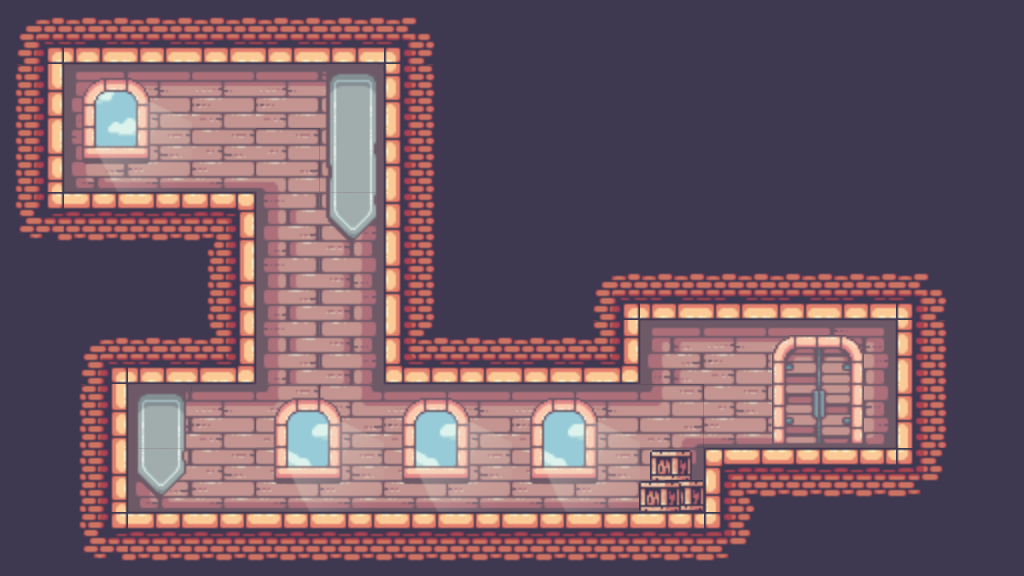
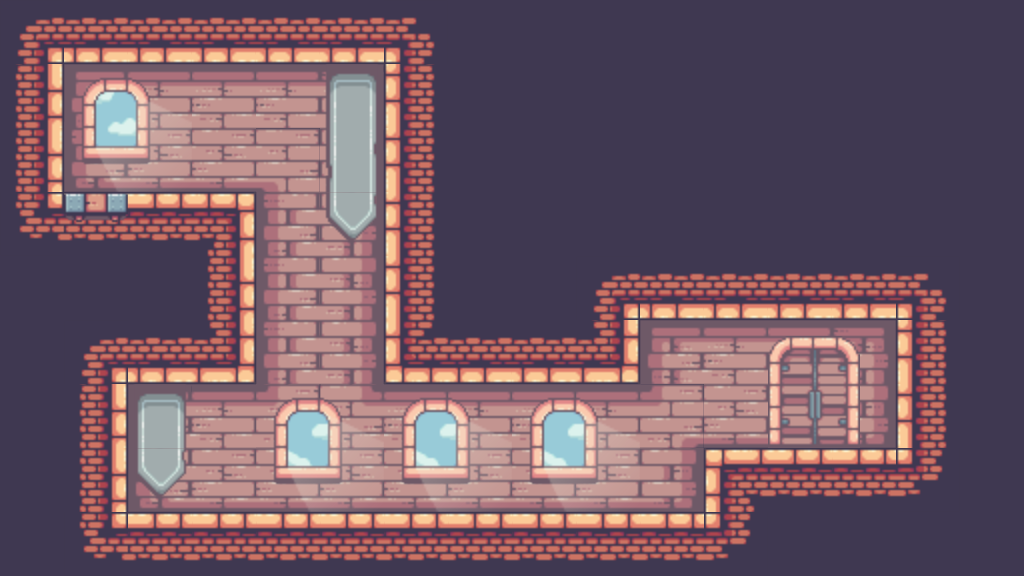
Level 2 and updated initPlayer()

Changed region(s): [[0.75, 0.5625, 0.8438, 0.7812], [0.625, 0.7812, 0.6875, 0.9062], [0.0625, 0.3125, 0.125, 0.4062]]

diff --git a/main.js b/main.js
@@ -238,7 +238,7 @@ class ActorSprite {
     animate(deltaTime) {
         this.animationCounter += deltaTime;
         if (this.animationCounter >= this.animationTimer) {
-            if (this.currentFrame > this.maxFrame - 2) {
+            if (this.currentFrame > this.maxFrame) {
                 this.currentFrame = 0;
             }
             else {
@@ -260,7 +260,7 @@ class Player {
         this.r = 0;
         this.width = args.width;
         this.height = args.height;
-        this.pos = new Vector2D(400, 200);
+        this.pos = new Vector2D(0, 0);
         this.vel = new Vector2D(0, 0);
         this.jumpFactor = args.jumpFactor;
         this.speedFactor = args.speedFactor;
@@ -416,7 +416,7 @@ class Door extends Point {
         let cropbox = this.sprite.cropbox();
         let frameWidth = (this.sprite.image.width / this.sprite.maxFrame);
         ctx.save();
-        ctx.translate(0, -(this.sprite.h - this.radius * 2) / 2);
+        ctx.translate(0, (-this.sprite.h + 15) / 2);
         ctx.drawImage(this.sprite.image, 
         /**
          * cropbox is what needs to be cropped from original image
@@ -436,11 +436,15 @@ class Door extends Point {
          * Draw sprite outline (cropbox)
          */
         if (GAME.debug.isOn) {
-            // Point
+            /**
+             * Draw reference point (origin)
+             */
             super.draw(ctx);
-            // Cropbox
+            /**
+             * Draw door cropbox outline
+             */
             ctx.save();
-            ctx.translate(0, -(this.sprite.h - this.radius * 2 - 2) / 2);
+            ctx.translate(0, (-this.sprite.h + 15) / 2);
             ctx.beginPath();
             ctx.strokeStyle = 'black';
             ctx.rect(this.pos.x, this.pos.y, this.sprite.w, this.sprite.h);
@@ -471,18 +475,18 @@ class GameEngine {
         return {
             1: {
                 collisions: [
-                    [0, 0, 0, 0, 0, 0, 0, 0, 0, 0, 0, 0, 0, 0, 0, 0],
-                    [0, 0, 0, 0, 0, 0, 0, 0, 0, 0, 0, 0, 0, 0, 0, 0],
-                    [0, 292, 292, 292, 292, 292, 292, 292, 292, 292, 292, 292, 292, 292, 292, 0],
-                    [0, 292, 0, 0, 0, 0, 0, 0, 0, 0, 0, 0, 0, 0, 292, 0],
-                    [0, 292, 0, 0, 0, 0, 0, 0, 0, 0, 0, 0, 0, 0, 292, 0],
-                    [0, 292, 292, 267, 0, 0, 0, 0, 0, 0, 0, 0, 290, 0, 292, 0],
-                    [0, 292, 292, 292, 292, 292, 292, 292, 292, 292, 292, 292, 292, 292, 292, 0],
-                    [0, 0, 0, 0, 0, 0, 0, 0, 0, 0, 0, 0, 0, 0, 0, 0],
-                    [0, 0, 0, 0, 0, 0, 0, 0, 0, 0, 0, 0, 0, 0, 0, 0]
+                    [292, 292, 292, 292, 292, 292, 292, 0, 0, 0, 0, 0, 0, 0, 0, 0],
+                    [292, 0, 0, 0, 0, 0, 292, 0, 0, 0, 0, 0, 0, 0, 0, 0],
+                    [292, 0, 0, 0, 0, 0, 292, 0, 0, 0, 0, 0, 0, 0, 0, 0],
+                    [292, 267, 292, 292, 0, 0, 292, 0, 0, 0, 0, 0, 0, 0, 0, 0],
+                    [0, 0, 0, 292, 0, 0, 292, 0, 0, 292, 292, 292, 292, 292, 292, 0],
+                    [0, 292, 292, 292, 0, 0, 292, 292, 292, 292, 0, 0, 0, 0, 292, 0],
+                    [0, 292, 0, 0, 0, 0, 0, 0, 0, 0, 0, 0, 290, 0, 292, 0],
+                    [0, 292, 0, 0, 0, 0, 0, 0, 0, 0, 0, 292, 292, 292, 292, 0],
+                    [0, 292, 292, 292, 292, 292, 292, 292, 292, 292, 292, 292, 0, 0, 0, 0]
                 ],
                 image: {
-                    src: './img/backgroundLevel1.png',
+                    src: './img/backgroundLevel2.png',
                     sw: 1024, // TODO: find a way to remove this
                     sh: 576 // and this.
                 },
@@ -511,19 +515,21 @@ class GameEngine {
          * Place the player on this location when game starts or
          * when player respawns.
          */
-        this.blocks.forEach(block => {
-            if (block.constructor.name == 'SpawnPlace') {
-                /**
-                 * Exact positoin is offset by half the player's width
-                 * to place it on top of the point.
-                 */
-                this.player.pos.x = block.pos.x - this.player.width / 2;
-                /**
-                 * Gravity will affect this. It's possible the player won't end up on the y-value of the point if there's a collision block.
-                 */
-                this.player.pos.y = block.pos.y;
-            }
-        });
+        let block = this.blocks.find(block => block.constructor.name == 'SpawnPlace');
+        if (block) {
+            /**
+             * Exact positoin is offset by half the player's width
+             * to place it on top of the point.
+             * Using a buffer to avoid the edge case where the player
+             * spawns on the edge of a collision block.
+             */
+            let buffer = this.player.width / 2;
+            this.player.pos.x = block.pos.x + buffer;
+            /**
+             * Gravity will affect this. It's possible the player won't end up on the y-value of the point if there's a collision block.
+             */
+            this.player.pos.y = block.pos.y;
+        }
         /**
          * Player dimensions should be responsive to the
          * canvas dimensions.
@@ -582,9 +588,12 @@ class GameEngine {
             this.player.move(LEFT);
             this.player.sprite.swapSprite('./img/king/runLeft.png', 8);
         }
+        /**
+         * [Debug Mode]
+         * Toggle debug mode by pressing "d"
+         */
         if (e.key == D) {
             this.debug.isOn = !this.debug.isOn; // toggle debug mode
-            console.log(this);
         }
     }
     checkCanvasCollision(p) {
@@ -597,6 +606,9 @@ class GameEngine {
         let hasHitLeftSide = playerSides.left <= 0;
         let hasHitUpSide = playerSides.up <= 0;
         let hasHitRightSide = playerSides.right >= this.canvas.width;
+        /**
+         * No need to check down side as applyGravity() already does it.
+         */
         let hasHitDownSide = playerSides.down + p.height >= this.canvas.height;
         if (hasHitLeftSide) {
             this.player.pos.x = 0;
@@ -647,7 +659,7 @@ class GameEngine {
                 case 'Door':
                     let door = block;
                     door.draw(ctx);
-                    door.sprite.animate(deltaTime);
+                    // door.sprite.animate(deltaTime);
                     break;
                 case 'SpawnPlace':
                     if (this.debug.isOn) {

diff --git a/main.ts b/main.ts
@@ -279,6 +279,12 @@ interface PlayerUpdateOptions {
 }
 
 
+interface ActorSpriteOptions {
+  pos: Vector2D
+  src: string
+  maxFrame: number
+  animationTimer: number
+}
 
 class ActorSprite {
   pos: Vector2D;
@@ -332,7 +338,7 @@ class ActorSprite {
   animate(deltaTime: number){
     this.animationCounter += deltaTime;
     if(this.animationCounter >= this.animationTimer){
-      if(this.currentFrame > this.maxFrame - 2) {
+      if(this.currentFrame > this.maxFrame) {
         this.currentFrame = 0;
       } else {
         this.currentFrame += 1;
@@ -364,8 +370,8 @@ class Player{
   constructor(args: PlayerOptions) {
     this.width = args.width;
     this.height = args.height;    
-    this.pos = new Vector2D(400, 200);
-    this.vel = new Vector2D(0, 0);
+    this.pos = new Vector2D(0,0);
+    this.vel = new Vector2D(0,0);
     this.jumpFactor = args.jumpFactor;
     this.speedFactor = args.speedFactor;
     this.game = args.game;
@@ -535,8 +541,6 @@ class Player{
 
 
 
-
-
 /**
  * A Door is an game actor in that it performs some animations
  * and influences game flow.
@@ -557,7 +561,7 @@ class Door extends Point{
     let frameWidth = (this.sprite.image.width / this.sprite.maxFrame);
     
     ctx.save();    
-    ctx.translate(0, -(this.sprite.h-this.radius*2)/2);
+    ctx.translate(0, (-this.sprite.h+15)/2);
     ctx.drawImage(this.sprite.image,
       /**
        * cropbox is what needs to be cropped from original image
@@ -578,25 +582,26 @@ class Door extends Point{
       this.sprite.h
     );
     ctx.restore();
-    
     /**
      * [Debug mode]
      * Draw door's point of reference
      * Draw sprite outline (cropbox)
      */
     if(GAME.debug.isOn){
-      // Point
+      /**
+       * Draw reference point (origin)
+       */
       super.draw(ctx);
-      // Cropbox
+      /**
+       * Draw door cropbox outline
+       */
       ctx.save();
-      ctx.translate(0, -(this.sprite.h-this.radius*2 -2)/2);
+      ctx.translate(0, (-this.sprite.h+15)/2);
       ctx.beginPath()
       ctx.strokeStyle = 'black';
       ctx.rect(this.pos.x, this.pos.y, this.sprite.w, this.sprite.h);
       ctx.stroke();
       ctx.restore();
-
-
     } 
   }
 }
@@ -648,20 +653,22 @@ class GameEngine {
   }
 
   get LEVELS(){
+    
     return {
       1: {
         collisions: [
-          [0, 0, 0, 0, 0, 0, 0, 0, 0, 0, 0, 0, 0, 0, 0, 0],
-          [0, 0, 0, 0, 0, 0, 0, 0, 0, 0, 0, 0, 0, 0, 0, 0],
-          [0, 292, 292, 292, 292, 292, 292, 292, 292, 292, 292, 292, 292, 292, 292, 0],
-          [0, 292, 0, 0, 0, 0, 0, 0, 0, 0, 0, 0, 0, 0, 292, 0],
-          [0, 292, 0, 0, 0, 0, 0, 0, 0, 0, 0, 0, 0, 0, 292, 0],
-          [0, 292, 292, 267, 0, 0, 0, 0, 0, 0, 0, 0, 290, 0, 292, 0],
-          [0, 292, 292, 292, 292, 292, 292, 292, 292, 292, 292, 292, 292, 292, 292, 0],
-          [0, 0, 0, 0, 0, 0, 0, 0, 0, 0, 0, 0, 0, 0, 0, 0],
-          [0, 0, 0, 0, 0, 0, 0, 0, 0, 0, 0, 0, 0, 0, 0, 0]],
+          [292, 292, 292, 292, 292, 292, 292, 0, 0, 0, 0, 0, 0, 0, 0, 0],
+          [292, 0, 0, 0, 0, 0, 292, 0, 0, 0, 0, 0, 0, 0, 0, 0],
+          [292, 0, 0, 0, 0, 0, 292, 0, 0, 0, 0, 0, 0, 0, 0, 0],
+          [292, 267, 292, 292, 0, 0, 292, 0, 0, 0, 0, 0, 0, 0, 0, 0],
+          [0, 0, 0, 292, 0, 0, 292, 0, 0, 292, 292, 292, 292, 292, 292, 0],
+          [0, 292, 292, 292, 0, 0, 292, 292, 292, 292, 0, 0, 0, 0, 292, 0],
+          [0, 292, 0, 0, 0, 0, 0, 0, 0, 0, 0, 0, 290, 0, 292, 0],
+          [0, 292, 0, 0, 0, 0, 0, 0, 0, 0, 0, 292, 292, 292, 292, 0],
+          [0, 292, 292, 292, 292, 292, 292, 292, 292, 292, 292, 292, 0, 0, 0, 0]
+        ],
         image: {
-          src: './img/backgroundLevel1.png',
+          src: './img/backgroundLevel2.png',
           sw: 1024, // TODO: find a way to remove this
           sh: 576   // and this.
         },
@@ -693,19 +700,21 @@ class GameEngine {
      * Place the player on this location when game starts or
      * when player respawns.
      */
-    this.blocks.forEach(block => {      
-      if(block.constructor.name == 'SpawnPlace'){
-        /**
-         * Exact positoin is offset by half the player's width
-         * to place it on top of the point.
-         */
-        this.player.pos.x = block.pos.x - this.player.width/2;
-        /**
-         * Gravity will affect this. It's possible the player won't end up on the y-value of the point if there's a collision block.
-         */
-        this.player.pos.y = block.pos.y;
-      }
-    })
+    let block = this.blocks.find(block => block.constructor.name == 'SpawnPlace');
+    if(block){
+      /**
+       * Exact positoin is offset by half the player's width
+       * to place it on top of the point.
+       * Using a buffer to avoid the edge case where the player 
+       * spawns on the edge of a collision block.
+       */
+      let buffer = this.player.width / 2;
+      this.player.pos.x = block.pos.x + buffer
+      /**
+       * Gravity will affect this. It's possible the player won't end up on the y-value of the point if there's a collision block.
+       */
+      this.player.pos.y = block.pos.y;
+    }
 
     /**
      * Player dimensions should be responsive to the 
@@ -770,9 +779,12 @@ class GameEngine {
       this.player.move(LEFT);
       this.player.sprite.swapSprite('./img/king/runLeft.png', 8);
     }
+    /**
+     * [Debug Mode]
+     * Toggle debug mode by pressing "d"
+     */
     if (e.key == D) {
       this.debug.isOn = !this.debug.isOn // toggle debug mode
-      console.log(this);
     }
   }
 
@@ -786,6 +798,9 @@ class GameEngine {
     let hasHitLeftSide = playerSides.left <= 0;
     let hasHitUpSide = playerSides.up <= 0;
     let hasHitRightSide = playerSides.right >= this.canvas.width;
+    /**
+     * No need to check down side as applyGravity() already does it.
+     */
     let hasHitDownSide = playerSides.down + p.height >= this.canvas.height;
     if (hasHitLeftSide) {
       this.player.pos.x = 0;
@@ -839,8 +854,7 @@ class GameEngine {
         case 'Door':
           let door = block as Door;
           door.draw(ctx);
-          door.sprite.animate(deltaTime);
-          
+          // door.sprite.animate(deltaTime);
           break;
         case 'SpawnPlace':
           if(this.debug.isOn){        
@@ -876,7 +890,6 @@ class GameEngine {
       gravity: this.gravity,
       collisionBlocks: this.blocks
     })
-
 
     // Reset timer
     if (this.debug.timer > ONE_SECOND) {

diff --git a/config.js b/config.js
@@ -27,14 +27,14 @@ let master = {
   },
   levels: {
     1: {
-      background:{
-         src: "./img/backgroundLevel1.png",
-         width: 1024,
-         height: 576,
-         xTiles: 16,
-         yTiles: 9,
-         tileWidth: 64
-        },
+      background: {
+        src: "./img/backgroundLevel1.png",
+        width: 1024,
+        height: 576,
+        xTiles: 16,
+        yTiles: 9,
+        tileWidth: 64
+      },
       blocks: {
         array: [
           [0, 0, 0, 0, 0, 0, 0, 0, 0, 0, 0, 0, 0, 0, 0, 0],
@@ -46,6 +46,34 @@ let master = {
           [0, 292, 292, 292, 292, 292, 292, 292, 292, 292, 292, 292, 292, 292, 292, 0],
           [0, 0, 0, 0, 0, 0, 0, 0, 0, 0, 0, 0, 0, 0, 0, 0],
           [0, 0, 0, 0, 0, 0, 0, 0, 0, 0, 0, 0, 0, 0, 0, 0]
+        ],
+        flags: {
+          collision: 292,
+          spawn: 267,
+          door: 290
+        }
+      }
+    },
+    2: {
+      background: {
+        src: "./img/backgroundLevel1.png",
+        width: 1024,
+        height: 576,
+        xTiles: 16,
+        yTiles: 9,
+        tileWidth: 64
+      },
+      blocks: {
+        array: [
+          [292, 292, 292, 292, 292, 292, 292, 0, 0, 0, 0, 0, 0, 0, 0, 0],
+          [292, 0, 0, 0, 0, 0, 292, 0, 0, 0, 0, 0, 0, 0, 0, 0],
+          [292, 0, 0, 267, 0, 0, 292, 0, 0, 0, 0, 0, 0, 0, 0, 0],
+          [292, 292, 292, 292, 0, 0, 292, 0, 0, 0, 0, 0, 0, 0, 0, 0],
+          [0, 0, 0, 292, 0, 0, 292, 0, 0, 292, 292, 292, 292, 292, 292, 0],
+          [0, 292, 292, 292, 0, 0, 292, 292, 292, 292, 0, 0, 0, 0, 292, 0],
+          [0, 292, 0, 0, 0, 0, 0, 0, 0, 0, 0, 0, 290, 0, 292, 0],
+          [0, 292, 0, 0, 0, 0, 0, 0, 0, 0, 0, 292, 292, 292, 292, 0],
+          [0, 292, 292, 292, 292, 292, 292, 292, 292, 292, 292, 292, 0, 0, 0, 0]
         ],
         flags: {
           collision: 292,
